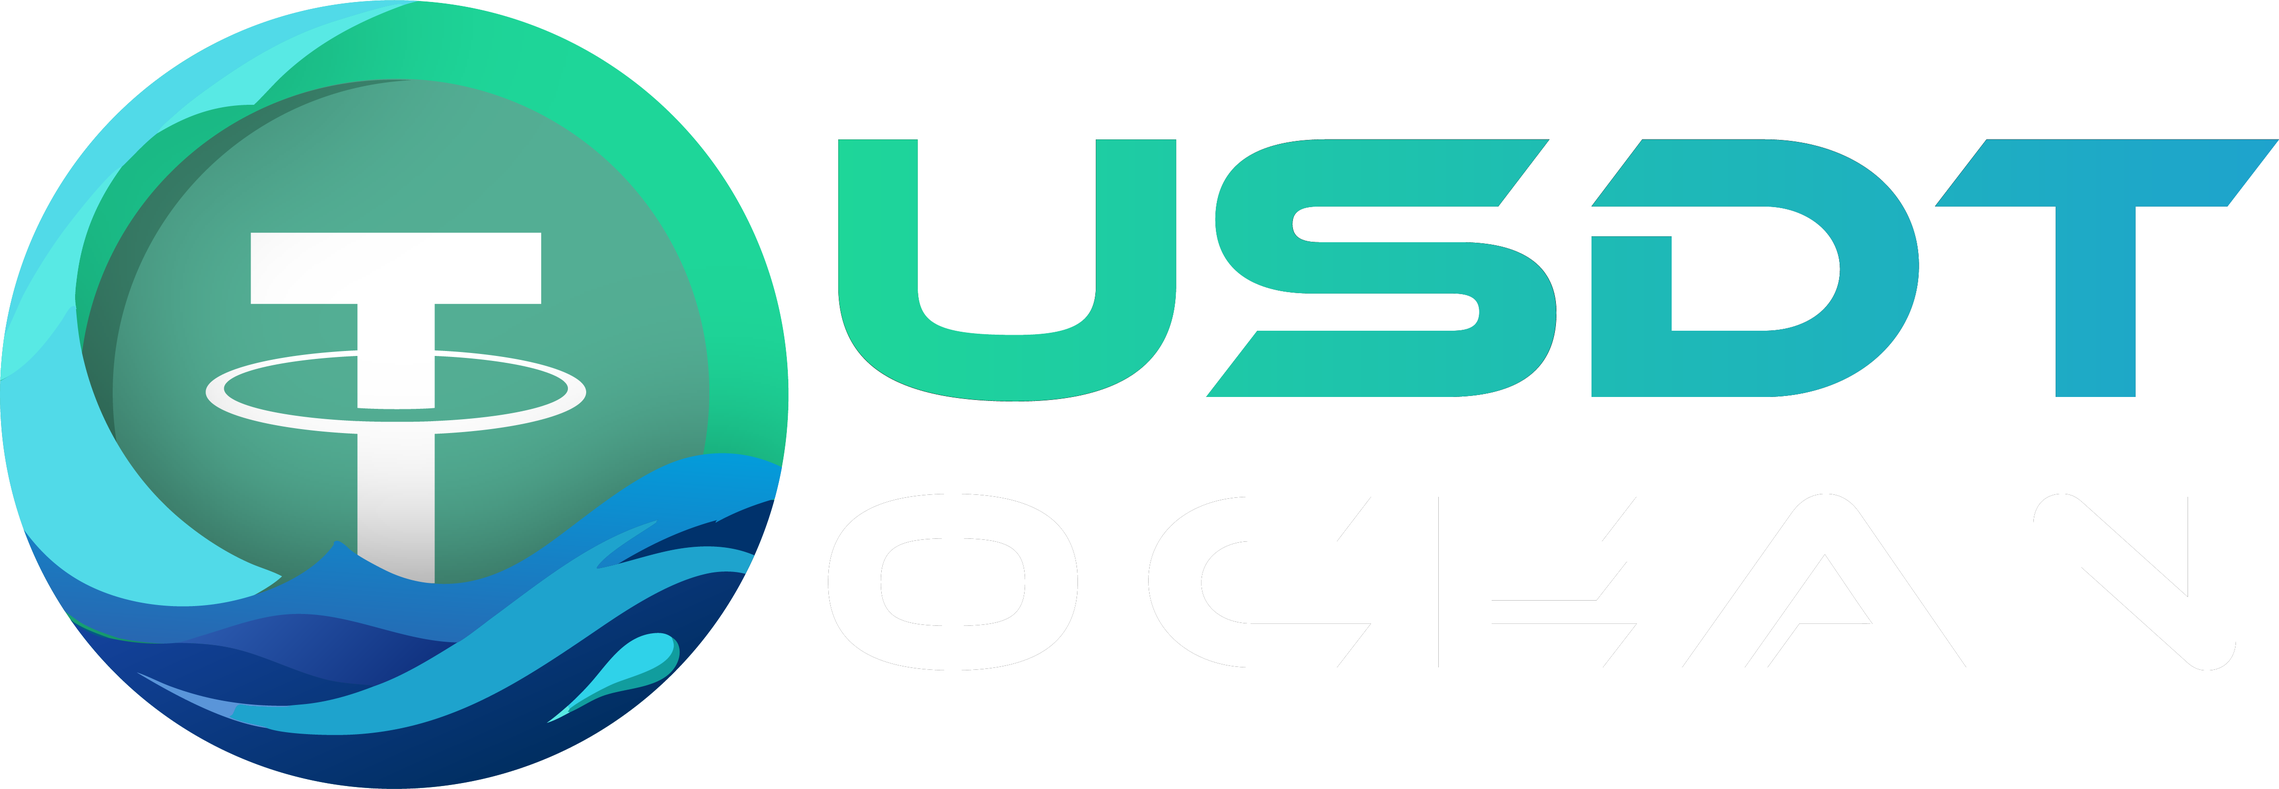
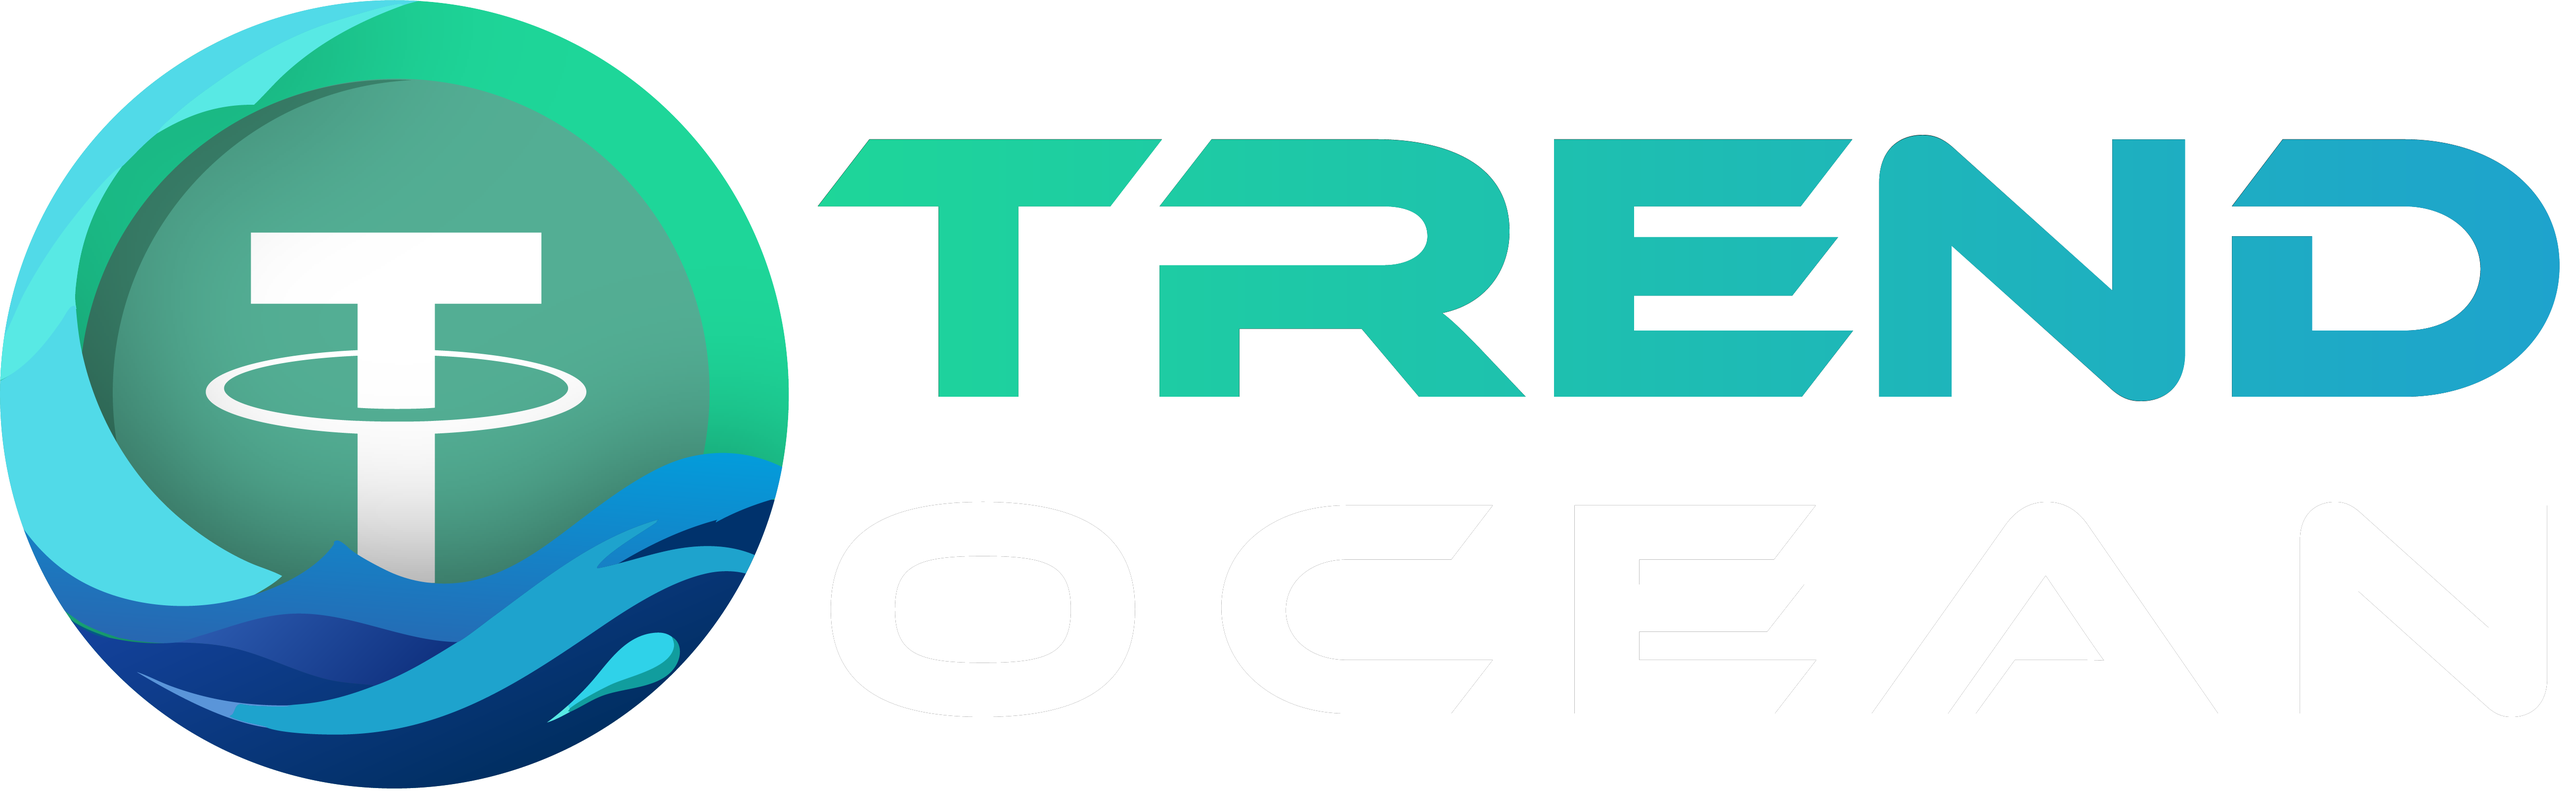
dfws

diff --git a/src/components/Landing/Home.jsx b/src/components/Landing/Home.jsx
@@ -1,4 +1,4 @@
-import React, { useState } from "react";
+import React, { useEffect, useState } from "react";
 import "./css/Home.css";
 import "./css/style.css";
 import "./css/responsive.css";
@@ -14,11 +14,178 @@ import { Link } from "react-router-dom";
 
 function Homepage() {
   const [fullheight, setFullHeight] = useState(false);
+  const [timeLeft, setTimeLeft] = useState({
+    days: 0,
+    hours: 0,
+    minutes: 0,
+    seconds: 0
+  });
+  const [showModal, setShowModal] = useState(true);
   const apkURL = `${window.location.origin}/apk/app-release (1).apk`;
 
+  useEffect(() => {
+    const calculateTimeLeft = () => {
+      try {
+        const targetDate = new Date('April 9, 2025 11:00:00').getTime();
+        const now = new Date().getTime();
+        const difference = targetDate - now;
+
+        if (difference > 0) {
+          setTimeLeft({
+            days: Math.floor(difference / (1000 * 60 * 60 * 24)),
+            hours: Math.floor((difference % (1000 * 60 * 60 * 24)) / (1000 * 60 * 60)),
+            minutes: Math.floor((difference % (1000 * 60 * 60)) / (1000 * 60)),
+            seconds: Math.floor((difference % (1000 * 60)) / 1000)
+          });
+        } else {
+          setShowModal(false);
+        }
+      } catch (error) {
+        console.error("Error in countdown calculation:", error);
+        setShowModal(false);
+      }
+    };
+
+    const timer = setInterval(calculateTimeLeft, 1000);
+    calculateTimeLeft(); // Initial call
+
+    return () => clearInterval(timer);
+  }, []);
+
+  const closeModal = () => {
+    setShowModal(false);
+  };
 
   return (
     <div id="top" style={{ overflow: "hidden" }} >
+          {/* Modal Popup */}
+          {showModal && (
+        <div style={{
+          position: 'fixed',
+          top: 0,
+          left: 0,
+          right: 0,
+          bottom: 0,
+          backgroundColor: 'rgba(0,0,0,0.8)',
+          display: 'flex',
+          justifyContent: 'center',
+          alignItems: 'center',
+          zIndex: 9999,
+          backdropFilter: 'blur(5px)'
+        }}>
+          <div style={{
+            background: 'linear-gradient(135deg, #1a1a2e, #16213e)',
+            padding: '30px',
+            borderRadius: '15px',
+            maxWidth: '600px',
+            width: '90%',
+            boxShadow: '0 10px 25px rgba(0,0,0,0.3)',
+            border: '1px solid rgba(255,255,255,0.1)',
+            textAlign: 'center',
+            position: 'relative'
+          }}>
+            <button 
+              onClick={closeModal}
+              style={{
+                position: 'absolute',
+                top: '15px',
+                right: '15px',
+                background: 'none',
+                border: 'none',
+                color: '#fff',
+                fontSize: '1.5rem',
+                cursor: 'pointer'
+              }}
+            >
+              ×
+            </button>
+            
+            <h2 style={{
+              color: '#ff5183',
+              fontSize: '2rem',
+              marginBottom: '20px',
+              fontWeight: 'bold'
+            }}>
+              🚀 Exciting Updates Coming Soon! 🚀
+            </h2>
+            
+            <p style={{
+              color: '#fff',
+              fontSize: '1.1rem',
+              marginBottom: '30px',
+              lineHeight: '1.6'
+            }}>
+              We're working on something amazing for you! Mark your calendar for April 9, 2025 at 11 AM.
+            </p>
+            
+            <div style={{
+              display: 'flex',
+              justifyContent: 'center',
+              gap: '15px',
+              flexWrap: 'wrap',
+              marginBottom: '30px'
+            }}>
+              <div style={{
+                background: 'rgba(255,255,255,0.1)',
+                padding: '15px',
+                borderRadius: '10px',
+                minWidth: '80px'
+              }}>
+                <div style={{ fontSize: '2rem', fontWeight: '800', color: '#6e00ff' }}>{timeLeft.days}</div>
+                <div style={{ fontSize: '0.9rem', color: '#aaa' }}>DAYS</div>
+              </div>
+              <div style={{
+                background: 'rgba(255,255,255,0.1)',
+                padding: '15px',
+                borderRadius: '10px',
+                minWidth: '80px'
+              }}>
+                <div style={{ fontSize: '2rem', fontWeight: '800', color: '#6e00ff' }}>{timeLeft.hours}</div>
+                <div style={{ fontSize: '0.9rem', color: '#aaa' }}>HOURS</div>
+              </div>
+              <div style={{
+                background: 'rgba(255,255,255,0.1)',
+                padding: '15px',
+                borderRadius: '10px',
+                minWidth: '80px'
+              }}>
+                <div style={{ fontSize: '2rem', fontWeight: '800', color: '#6e00ff' }}>{timeLeft.minutes}</div>
+                <div style={{ fontSize: '0.9rem', color: '#aaa' }}>MINUTES</div>
+              </div>
+              <div style={{
+                background: 'rgba(255,255,255,0.1)',
+                padding: '15px',
+                borderRadius: '10px',
+                minWidth: '80px'
+              }}>
+                <div style={{ fontSize: '2rem', fontWeight: '800', color: '#6e00ff' }}>{timeLeft.seconds}</div>
+                <div style={{ fontSize: '0.9rem', color: '#aaa' }}>SECONDS</div>
+              </div>
+            </div>
+            
+            <button 
+              onClick={closeModal}
+              style={{
+                background: 'linear-gradient(90deg, #ff5183, #6e00ff)',
+                color: 'white',
+                border: 'none',
+                padding: '12px 30px',
+                borderRadius: '50px',
+                fontSize: '1rem',
+                fontWeight: 'bold',
+                cursor: 'pointer',
+                transition: 'all 0.3s ease',
+                ':hover': {
+                  transform: 'scale(1.05)',
+                  boxShadow: '0 5px 15px rgba(110, 0, 255, 0.4)'
+                }
+              }}
+            >
+              Got It! I'm Excited
+            </button>
+          </div>
+        </div>
+      )}
       <Header />
 
 
@@ -700,7 +867,7 @@ function Homepage() {
               </div>
               <div className="col-lg-6 d-flex justify-content-end footer-text-landing">
                 <p className="copyright-text">
-                  Copyright © USDT OCEAN 2025 All rights
+                  Copyright © TREND OCEAN 2025 All rights
                   reserved.
                 </p>
 

diff --git a/src/components/Terms.jsx b/src/components/Terms.jsx
@@ -10,7 +10,7 @@ function Terms() {
             <div className="card-body p-4">
               <div className="mb-3 d-flex justify-content-between">
                 <h3 className="mb-1 text-primary">
-                  Terms of Use for TETHER OCEAN
+                  Terms of Use for TREND OCEAN
                 </h3>
                 <button class="btn btn-icon btn-danger btn-wave" onClick={() => window.history.back()}>
                   <i class="ri-arrow-left-circle-line"></i>
@@ -22,7 +22,7 @@ function Terms() {
                     1. Introduction :
                   </div>
                   <p className="mb-0">
-                    Welcome to TETHER OCEAN, a decentralized platform that
+                    Welcome to TREND OCEAN, a decentralized platform that
                     empowers individuals and communities to raise funds. By
                     accessing or using our platform, you agree to comply with
                     and be bound by these Terms of Use. Please read them
@@ -34,7 +34,7 @@ function Terms() {
                     2. Platform Purpose :
                   </div>
                   <p className="mb-0">
-                    TETHER OCEAN is a decentralized platform that facilitates
+                    TREND OCEAN is a decentralized platform that facilitates
                     fundraising by providing tools and resources to connect
                     communities. We do not encourage or solicit donations or
                     investments, nor do we guarantee returns on any
@@ -68,7 +68,7 @@ function Terms() {
                     4. No Liability for Returns :
                   </div>
                   <p className="mb-0">
-                    TETHER OCEAN is not responsible for ensuring or guaranteeing
+                    TREND OCEAN is not responsible for ensuring or guaranteeing
                     any financial returns or benefits from donations or
                     contributions. Any potential returns are contingent upon the
                     growth and success of the specific community or project.
@@ -79,7 +79,7 @@ function Terms() {
                     5. No Endorsement or Verification :
                   </div>
                   <p className="mb-0">
-                    TETHER OCEAN does not endorse, verify, or take responsibility
+                    TREND OCEAN does not endorse, verify, or take responsibility
                     for the accuracy or legitimacy of campaigns hosted on the
                     platform. Contributors should exercise due diligence before
                     making any financial commitments.
@@ -121,7 +121,7 @@ function Terms() {
                     8. Decentralization and Security :
                   </div>
                   <p className="mb-0">
-                    As a decentralized platform, TETHER OCEAN operates without
+                    As a decentralized platform, TREND OCEAN operates without
                     centralized oversight of user transactions. Users are
                     encouraged to take appropriate security measures to protect
                     their funds and information.
@@ -132,7 +132,7 @@ function Terms() {
                     9. Limitation of Liability :
                   </div>
                   <span className="fs-6 text-primary3">
-                    TETHER OCEAN is not liable for any loss, damage, or claims
+                    TREND OCEAN is not liable for any loss, damage, or claims
                     arising from the use of the platform, including but not
                     limited to :-
                   </span>
@@ -155,7 +155,7 @@ function Terms() {
                     10. Amendments :
                   </div>
                   <p className="mb-0">
-                    TETHER OCEAN reserves the right to modify or update these
+                    TREND OCEAN reserves the right to modify or update these
                     Terms of Use at any time. Users will be notified of
                     significant changes, and continued use of the platform
                     constitutes acceptance of the updated terms.

diff --git a/src/components/SignUp.jsx b/src/components/SignUp.jsx
@@ -50,7 +50,7 @@ function SignUp() {
   const [inputRef, setInputRef] = useState("");
   const [isLoading, setIsLoading] = useState(false);
   const [refFromUrl, setRefFromUrl] = useState();
-  const [showDiv, setShowDiv] = useState(false);
+  const [showDiv, setShowDiv] = useState(true);
   const [isCheckedYes, setIsCheckedYes] = useState(false);
   const [isCheckedNo, setIsCheckedNo] = useState(false);
   const [isChecked, setIsChecked] = useState(false);
@@ -140,9 +140,13 @@ function SignUp() {
         setIsLoading(false);
         return toast.error("Please connect wallet");
       }
-      if (!isCheckedYes && !isCheckedNo) {
+      // if (!isCheckedYes && !isCheckedNo) {
+      //   setIsLoading(false);
+      //   return toast.error("Please select checkbox !");
+      // }
+      if(!refAddress){
         setIsLoading(false);
-        return toast.error("Please select checkbox !");
+        return toast.error("Please Enter Sponsor Address");
       }
       if (!packageValue) {
         setIsLoading(false);
@@ -166,7 +170,7 @@ function SignUp() {
         console.log(getRefAddress?.data, "getRefAddress");
         if (getRefAddress?.status != 200) {
           setIsLoading(false);
-          toast.error("hello");
+          toast.error("Invalid Sponsor Address");
           return;
         }
       }
@@ -357,7 +361,7 @@ function SignUp() {
                         </div>
                       </div> */}
                     </div>
-                    <div className="text-center">
+                    {/* <div className="text-center">
                       <p className=" mt-3 mb-0 ">Have any Sponsor Id ?{"  "}</p>
                       <div>
                         <div
@@ -397,8 +401,8 @@ function SignUp() {
                           </label>
                         </div>
                       </div>
-                    </div>
-                    <div className="col-lg-12">
+                    </div> */}
+                    {/* <div className="col-lg-12">
                       <div className="d-flex align-items-center gap-3">
                         <input
                           className="form-check-input"
@@ -422,8 +426,8 @@ function SignUp() {
                           </Link>
                         </div>
                       </div>
-                    </div>
-                    <div className="cc mt-4 d-grid btn btn-outline-primary address-notconnected-btn d-flex justify-content-center align-content-center text-primary">
+                    </div> */}
+                    <div className="cc mt-5 d-grid btn btn-outline-primary address-notconnected-btn d-flex justify-content-center align-content-center text-primary">
                       {isLoading ? (
                         <span
                           className="spinner-border text-light"
@@ -491,7 +495,7 @@ function SignUp() {
                     Register Your Account
                   </h6>
                   <p className="text-fixed-white mb-1 op-6">
-                    Welcome to the TETHER OCEAN Dashboard. Please Register to
+                    Welcome to the TREND OCEAN Dashboard. Please Register to
                     securely manage your administrative tools and oversee
                     platform activities. Your credentials ensure system
                     integrity and functionality.

diff --git a/dist/index.html b/dist/index.html
@@ -11,7 +11,7 @@
     <meta charset="UTF-8" />
     <link rel="icon" type="image/png" href="/Tether Ocean1.png" />
     <meta name="viewport" content="width=device-width, initial-scale=1.0" />
-    <title>TETHER OCEAN</title>
+    <title>TREND OCEAN</title>
     <title>abc</title>
     <!-- bootstrap link -->
     <link
@@ -35,7 +35,7 @@
       href="https://cdn.jsdelivr.net/npm/@tabler/icons-webfont@latest/tabler-icons.min.css"
       rel="stylesheet"
     />
-    <script type="module" crossorigin src="/assets/index-DUNYOLQm.js"></script>
+    <script type="module" crossorigin src="/assets/index-By_arEgR.js"></script>
     <link rel="stylesheet" crossorigin href="/assets/index-Ckw99rDi.css">
   </head>
   <body data-theme-mode="dark">

diff --git a/src/components/SignIn.jsx b/src/components/SignIn.jsx
@@ -132,7 +132,7 @@ function SignIn() {
                 Login to Your Account
               </h6>
               <p className="text-fixed-white mb-1 op-6">
-                Welcome to the TETHER OCEAN Dashboard. Please log in to securely
+                Welcome to the TREND OCEAN Dashboard. Please log in to securely
                 manage your administrative tools and oversee platform
                 activities. Your credentials ensure system integrity and
                 functionality.

diff --git a/index.html b/index.html
@@ -11,7 +11,7 @@
     <meta charset="UTF-8" />
     <link rel="icon" type="image/png" href="/Tether Ocean1.png" />
     <meta name="viewport" content="width=device-width, initial-scale=1.0" />
-    <title>USDT OCEAN</title>
+    <title>TREND OCEAN</title>
     <title>abc</title>
     <!-- bootstrap link -->
     <link

diff --git a/src/components/Footer.jsx b/src/components/Footer.jsx
@@ -8,7 +8,7 @@ function Footer() {
           <span className="text-light">
             Copyright © <span id="year"></span>
             <a href="#" className="text-info fw-medium">
-            USDT OCEAN.
+            TREND OCEAN.
             </a>
             {" "}All rights reserved.
           </span>
